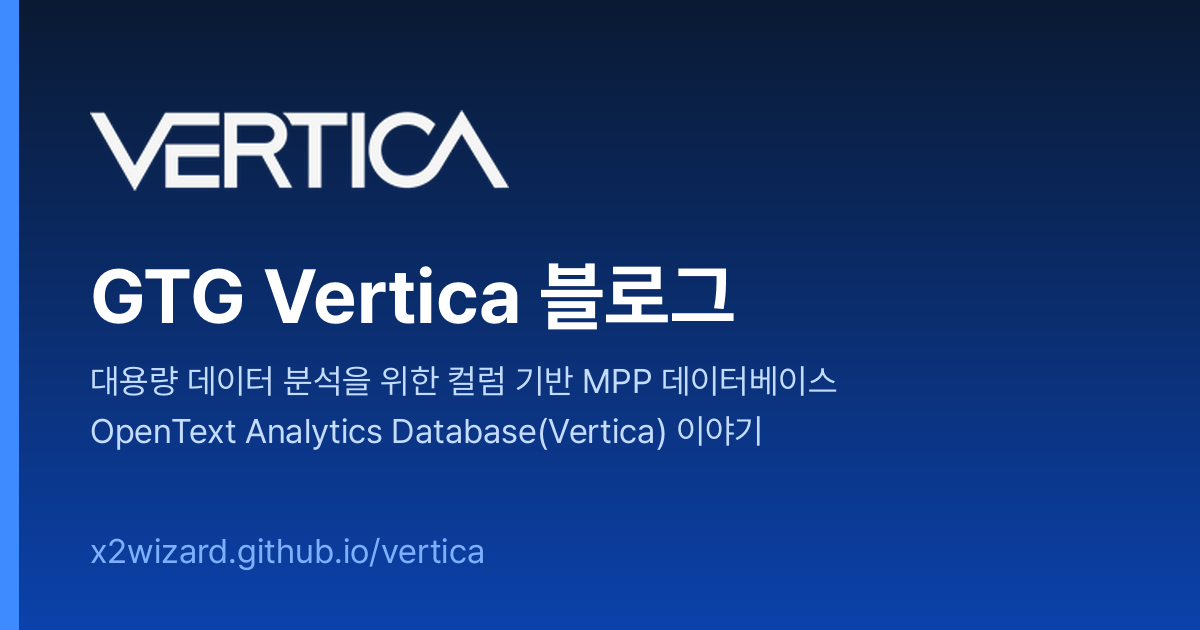
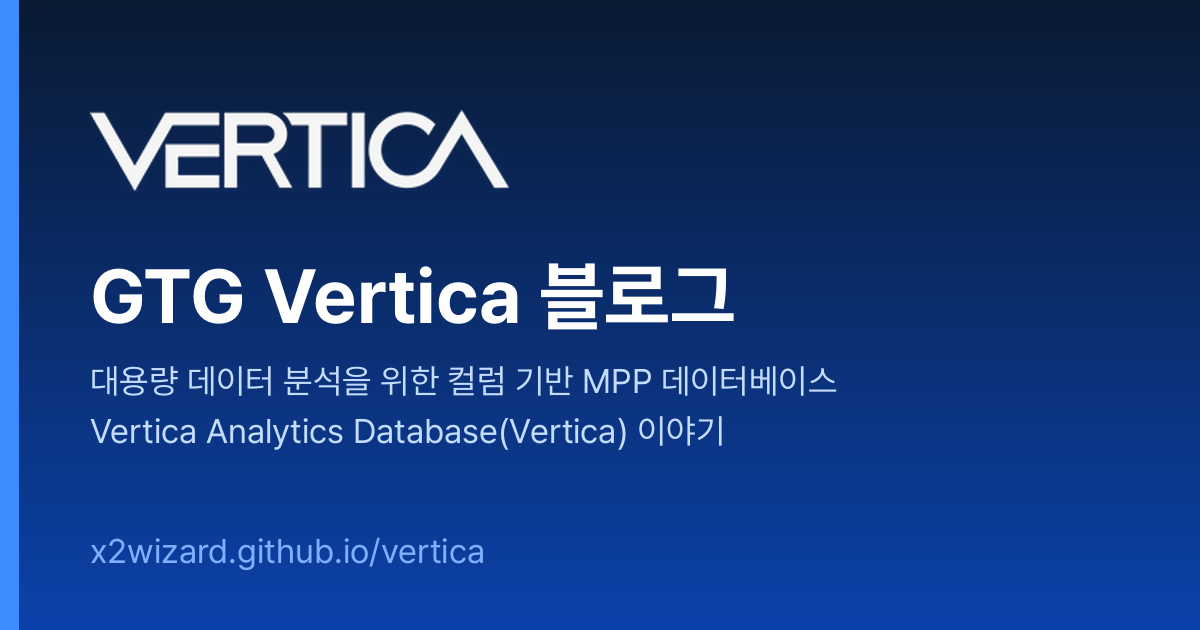
Rename "OpenText Analytics Database(Vertica)" to "Vertica Analytics Database(Vertica)"
Applies to post tags, the home tagline and the social preview image,
and to future migrations via TEXT_REPLACEMENTS in migrate.mjs.

Claude-Session: https://claude.ai/code/session_01KfzBr7FSv5h7zJNtHnbW7D

Changed region(s): [[0.0617, 0.6635, 0.6475, 0.7238]]

diff --git a/scripts/make-og-image.py b/scripts/make-og-image.py
@@ -25,7 +25,7 @@ bold = ImageFont.truetype(str(FONT_DIR / 'Pretendard-Bold.otf'), 76)
 reg = ImageFont.truetype(str(FONT_DIR / 'Pretendard-Regular.otf'), 34)
 d.text((90, 250), 'GTG Vertica 블로그', font=bold, fill='#ffffff')
 d.text((90, 360), '대용량 데이터 분석을 위한 컬럼 기반 MPP 데이터베이스', font=reg, fill='#c4dcff')
-d.text((90, 410), 'OpenText Analytics Database(Vertica) 이야기', font=reg, fill='#c4dcff')
+d.text((90, 410), 'Vertica Analytics Database(Vertica) 이야기', font=reg, fill='#c4dcff')
 d.text((90, 530), 'x2wizard.github.io/vertica', font=reg, fill='#7fb0ff')
 
 img.save(ROOT / 'public/og-image.png', optimize=True)

diff --git a/CLAUDE.md b/CLAUDE.md
@@ -25,6 +25,7 @@
 
 ## 이전 시 결정 사항
 - 모든 글의 작성일은 새 사이트 공개 기준일 2026-11-26 (migrate.mjs `PUBLISH_DATE`). 원래 글의 작성일·수정일은 쓰지 않는다.
+- 태그·본문의 "OpenText Analytics Database(Vertica)" 는 "Vertica Analytics Database(Vertica)" 로 바꾼다 (migrate.mjs `TEXT_REPLACEMENTS`).
 - 2025 IDC MarketScape 글(기존 vertica_etc/img/ 에 있던 것)은 옮기지 않는다.
 - Vertica_architecture_1040.20241119 는 백업 사본이라 draft.
 

diff --git a/src/content/docs/vertica_use/vertica_use_2003.md b/src/content/docs/vertica_use/vertica_use_2003.md
@@ -4,7 +4,7 @@ description: 버티카 Database 통계 정보 수집 및 실행계획 확인
 date: 2026-11-26
 tags:
   - 통계정보
-  - OpenText Analytics Database(Vertica)
+  - Vertica Analytics Database(Vertica)
 ---
 
 ## 버티카 Database 통계 정보 수집

diff --git a/src/content/docs/vertica_use/vertica_use_1030_04.md b/src/content/docs/vertica_use/vertica_use_1030_04.md
@@ -8,7 +8,7 @@ tags:
   - projection 생성
   - projection 추가
   - projection 삭제
-  - OpenText Analytics Database(Vertica)
+  - Vertica Analytics Database(Vertica)
 ---
 
 ## table에 projection을 추가로 생성하는 절차

diff --git a/src/content/docs/vertica_use/vertica_use_1030_03.md b/src/content/docs/vertica_use/vertica_use_1030_03.md
@@ -8,7 +8,7 @@ tags:
   - projection order by
   - projection segmentation
   - projection unsegmentation
-  - OpenText Analytics Database(Vertica)
+  - Vertica Analytics Database(Vertica)
 ---
 
 ## 정렬(projection order by)

diff --git a/src/content/docs/vertica_architecture/vertica_architecture_1070.md b/src/content/docs/vertica_architecture/vertica_architecture_1070.md
@@ -11,7 +11,7 @@ tags:
   - 파티션 푸르닝
   - Hierarchical Partitioning
   - 파티션 그룹핑
-  - OpenText Analytics Database(Vertica)
+  - Vertica Analytics Database(Vertica)
 ---
 
 ## Partition VS Segmentation

diff --git a/src/content/docs/vertica_etc/vertica_qna.md b/src/content/docs/vertica_etc/vertica_qna.md
@@ -4,7 +4,7 @@ description: Vertica Q&A는 메일로 문의해 주세요
 date: 2026-11-26
 tags:
   - Vertica Q&A
-  - OpenText Analytics Database(Vertica)
+  - Vertica Analytics Database(Vertica)
 ---
 
 ## 버티카 Q&A

diff --git a/src/content/docs/vertica_use/vertica_use_1030_02.md b/src/content/docs/vertica_use/vertica_use_1030_02.md
@@ -7,7 +7,7 @@ tags:
   - 프로젝션
   - projection 생성
   - 프로젝션 생성
-  - OpenText Analytics Database(Vertica)
+  - Vertica Analytics Database(Vertica)
 ---
 
 ## projection이 생성되는 시점

diff --git a/src/content/docs/vertica_architecture/vertica_architecture_1010.md b/src/content/docs/vertica_architecture/vertica_architecture_1010.md
@@ -7,7 +7,7 @@ tags:
   - 버티카
   - 버티카 아키텍처
   - vertica architecture
-  - OpenText Analytics Database(Vertica)
+  - Vertica Analytics Database(Vertica)
 ---
 
 ## Vertica 기본 아키텍처

diff --git a/src/content/docs/vertica_architecture/vertica_architecture_1030.md b/src/content/docs/vertica_architecture/vertica_architecture_1030.md
@@ -8,7 +8,7 @@ tags:
   - table
   - projection
   - 프로젝션
-  - OpenText Analytics Database(Vertica)
+  - Vertica Analytics Database(Vertica)
 ---
 
 ## Vertica table과 projection object 계층 구조

diff --git a/src/content/docs/vertica_use/vertica_use_1020.md b/src/content/docs/vertica_use/vertica_use_1020.md
@@ -7,7 +7,7 @@ tags:
   - 버티카 클러스터
   - vertica install
   - vertica 설치
-  - OpenText Analytics Database(Vertica)
+  - Vertica Analytics Database(Vertica)
 ---
 
 ## 버티카 3 node 구성

diff --git a/src/content/docs/vertica_use/vertica_use_1030_01.md b/src/content/docs/vertica_use/vertica_use_1030_01.md
@@ -7,7 +7,7 @@ tags:
   - projection
   - projection과 table 관계
   - 프로젝션
-  - OpenText Analytics Database(Vertica)
+  - Vertica Analytics Database(Vertica)
 ---
 
 ## projection과 table 관계
